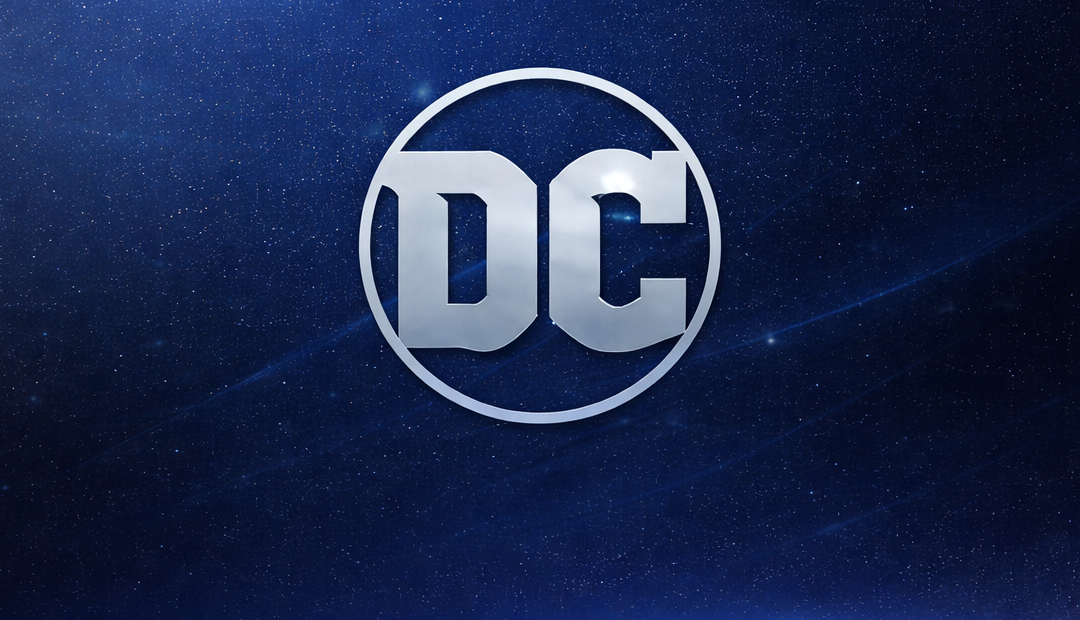
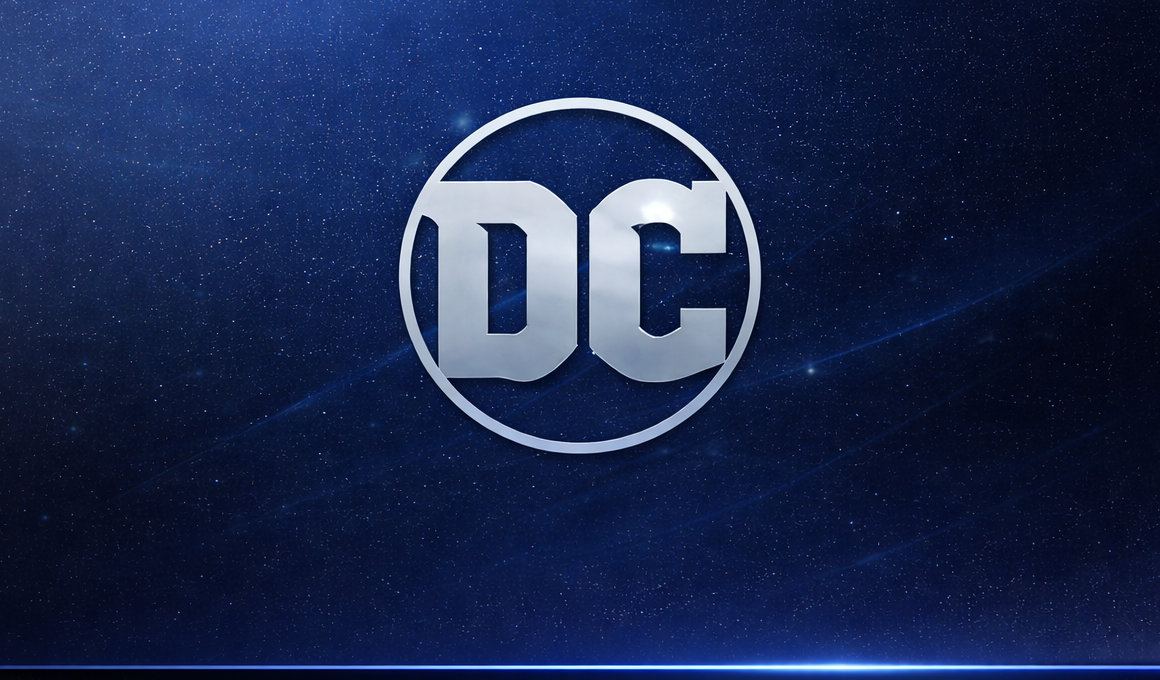
feat: add Pixar, DreamWorks, Sony image cards + fix centering
- All card images now cropped symmetrically from center (logos centered)
- Added Pixar, DreamWorks, Sony as featured studio cards with HD images
- Studios grid now shows 6 featured cards (3 rows x 2 columns)
- Re-cropped Disney, DC, Marvel for proper centering

diff --git a/app/(main)/studios/page.tsx b/app/(main)/studios/page.tsx
@@ -21,6 +21,7 @@ const FEATURED_STUDIOS = [
   {
     slug: 'pixar',
     name: 'Pixar',
+    image: '/studios/pixar-card.png',
     gradient: 'radial-gradient(ellipse at 50% 40%, rgba(20,60,80,0.5) 0%, rgba(12,35,50,0.8) 50%, rgba(8,15,25,0.95) 100%)',
     border: 'rgba(60,160,180,0.22)',
     glow: '0 0 40px rgba(30,120,150,0.12), 0 0 80px rgba(20,80,120,0.06)',
@@ -46,6 +47,26 @@ const FEATURED_STUDIOS = [
     glow: '0 0 40px rgba(40,80,180,0.12), 0 0 80px rgba(30,60,140,0.06)',
     accent: 'rgba(50,100,200,0.10)',
     streakColor: 'rgba(80,140,255,0.05)',
+  },
+  {
+    slug: 'dreamworks',
+    name: 'DreamWorks',
+    image: '/studios/dreamworks-card.png',
+    gradient: 'radial-gradient(ellipse at 50% 40%, rgba(20,50,100,0.5) 0%, rgba(12,30,60,0.8) 50%, rgba(8,14,30,0.95) 100%)',
+    border: 'rgba(70,120,200,0.20)',
+    glow: '0 0 40px rgba(40,80,160,0.12), 0 0 80px rgba(30,60,130,0.06)',
+    accent: 'rgba(50,100,180,0.10)',
+    streakColor: 'rgba(80,140,240,0.05)',
+  },
+  {
+    slug: 'sony',
+    name: 'Sony Pictures',
+    image: '/studios/sony-card.png',
+    gradient: 'radial-gradient(ellipse at 50% 40%, rgba(20,45,90,0.5) 0%, rgba(12,25,55,0.8) 50%, rgba(8,12,28,0.95) 100%)',
+    border: 'rgba(60,110,200,0.20)',
+    glow: '0 0 40px rgba(35,75,170,0.12), 0 0 80px rgba(25,55,130,0.06)',
+    accent: 'rgba(45,90,190,0.10)',
+    streakColor: 'rgba(70,130,240,0.05)',
   },
 ];
 
